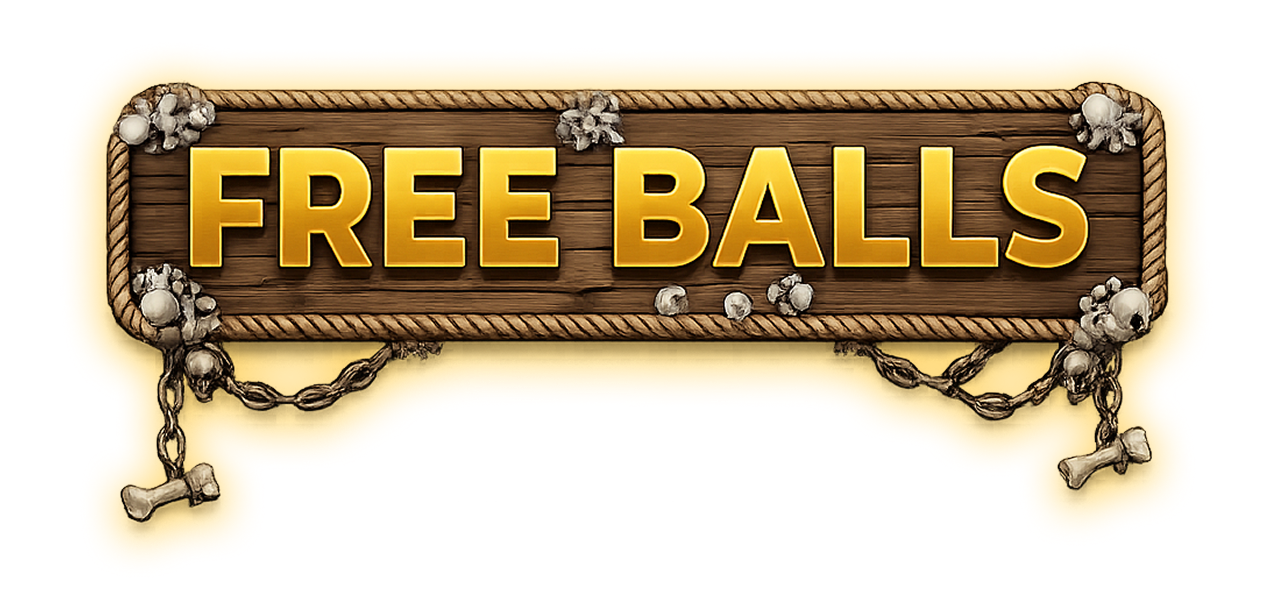
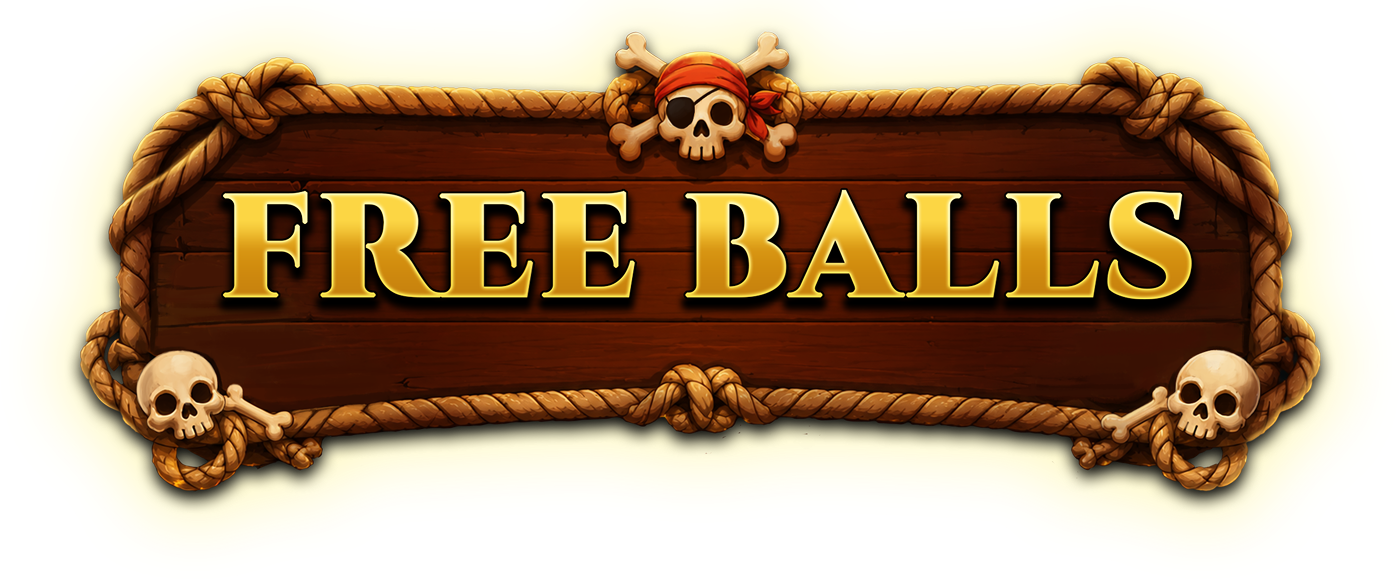
updated free balls label on bonus roulette screen

diff --git a/apps/plinko/src/features/bonus/BonusRoulette.svelte b/apps/plinko/src/features/bonus/BonusRoulette.svelte
@@ -71,12 +71,12 @@
 	// will crop — lower the scale or nudge with the offsets.
 	const BONUS_ROULETTE_TUNING = {
 		landscape: {
-			label: { scale: 1.8, offsetX: 0, offsetY: -0.05 },
+			label: { scale: 1.7, offsetX: 0, offsetY: -0.075 },
 			wheel: { scale: 1.8, offsetX: 0, offsetY: 0.3 },
 		},
 		portrait: {
 			label: { scale: 1.2, offsetX: 0, offsetY: 0 },
-			wheel: { scale: 1.2, offsetX: 0, offsetY: -0.2 },
+			wheel: { scale: 1.1, offsetX: 0, offsetY: -0.2 },
 		},
 	};
 
@@ -1014,7 +1014,8 @@
 	}
 	.bonus-spin-title {
 		position: relative;
-		/* Above the wheel assembly so the label always paints over the frame's crown pointer when it pokes up. */
+		/* Below the wheel assembly so the frame's crown marker paints OVER the label where it pokes up
+		   into the banner (see `.bonus-spin-wheel-stack`). */
 		z-index: 4;
 		width: min(72vw, 100%);
 		max-width: 100%;
@@ -1036,6 +1037,9 @@
 	}
 	.bonus-spin-wheel-stack {
 		position: relative;
+		/* Above `.bonus-spin-title` (z-index 4) so the frame's baked-in crown marker sits on top of the
+		   label instead of being covered by it when the wheel is scaled/offset up into the banner. */
+		z-index: 5;
 		width: min(72vw, 100%);
 		height: min(72vw, 100%);
 		max-width: 100%;
